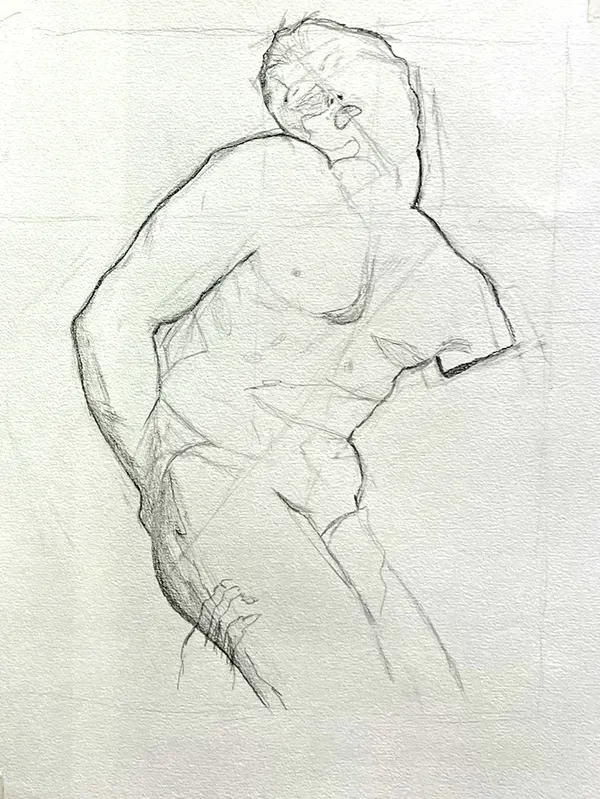
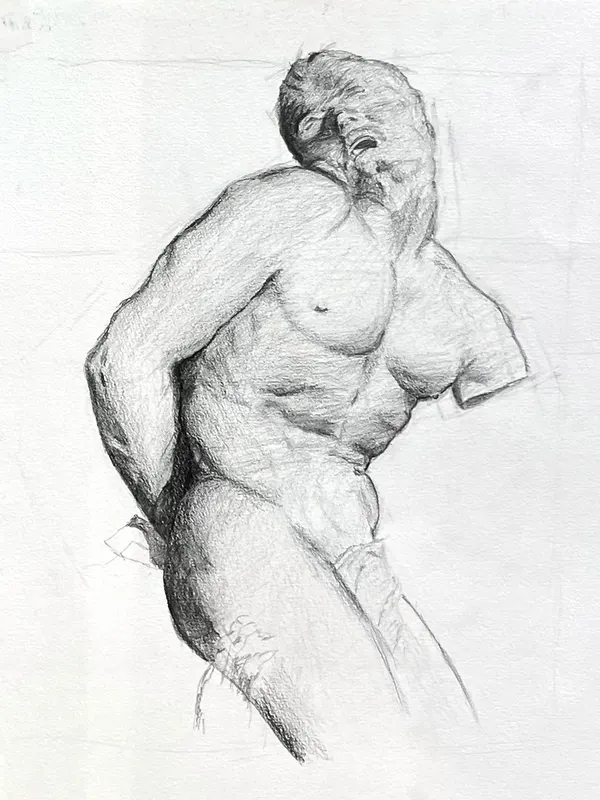
Let the finished drawing be the one the course shows
The finished sheet takes the cover, and the blocked-in one it came
from moves into the gallery under it, captioned, where it reads as
the stage it is rather than as a second drawing. Process says so too.

Both sheets are put on the same paper now: each channel is balanced
off its own sheet's paper, to one tone, so the two don't sit one
above the other as a cool photograph and a warm one.

Claude-Session: https://claude.ai/code/session_01CsNuvijTtYez66K3sYrpjQ

diff --git a/data/works.js b/data/works.js
@@ -359,30 +359,38 @@ window.SITE_DATA = {
                 year: 2026,
                 category: "Drawing exercise",
                 size: "medium",
-                blurb: "A copy after Puget's Milo of Croton, built out of "
-                  + "straight lines before any curve.",
+                blurb: "A copy after Puget's Milo of Croton: straight "
+                  + "lines first, tone last.",
                 intro: "The course draws from printed plates. The plate goes "
                   + "up on the board beside an empty sheet and the figure is "
                   + "measured across onto it by eye, at the same size. This "
                   + "one is after Pierre Puget's Milo of Croton, taken as far "
                   + "as the chest, the near arm and the turn of the head.",
-                process: "Everything is laid in straight first: the outline "
-                  + "of the whole figure as a run of flat angles, then the "
-                  + "longer ones inside it \u2014 the shoulder, the ribs, the "
-                  + "line of the thigh \u2014 each one a straight line "
-                  + "standing in for the curve it will become. The faint "
-                  + "horizontal and vertical across the sheet are carried "
-                  + "over from the plate, and everything is measured against "
-                  + "them. Only once a shape is boxed in does it get its "
-                  + "curve, and only where a line is already there to put it "
-                  + "on.",
+                process: "Everything is laid in straight first \u2014 the "
+                  + "second sheet here is that stage: the outline of the "
+                  + "whole figure as a run of flat angles, then the longer "
+                  + "ones inside it, the shoulder, the ribs, the line of the "
+                  + "thigh, each one a straight line standing in for the "
+                  + "curve it will become. The faint horizontal and vertical "
+                  + "across the sheet are carried over from the plate, and "
+                  + "everything is measured against them. Only once a shape "
+                  + "is boxed in does it get its curve, and the tone goes on "
+                  + "last, over a drawing whose edges are already decided.",
                 materials: ["Graphite on paper"],
                 images: {
                   medium: "assets/img/milo-study-medium.webp",
-                  w: 600, h: 799,
+                  w: 600, h: 800,
                   full: "assets/img/milo-study-full.jpg"
                 },
-                gallery: []
+                gallery: [
+                  {
+                    type: "image",
+                    caption: "The same sheet, blocked in.",
+                    medium: "assets/img/milo-study-2-medium.webp",
+                    w: 600, h: 799,
+                    full: "assets/img/milo-study-2-full.jpg"
+                  }
+                ]
               }
             ]
           }
